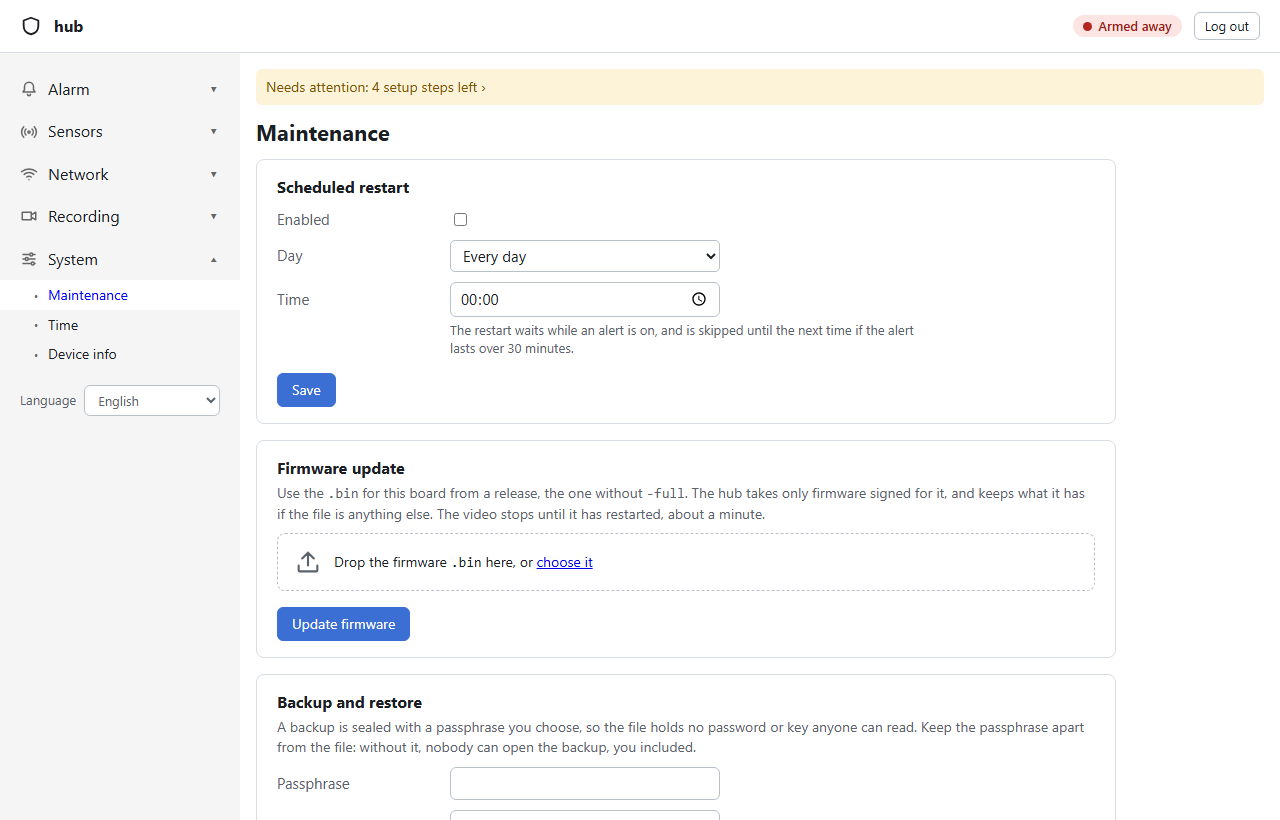
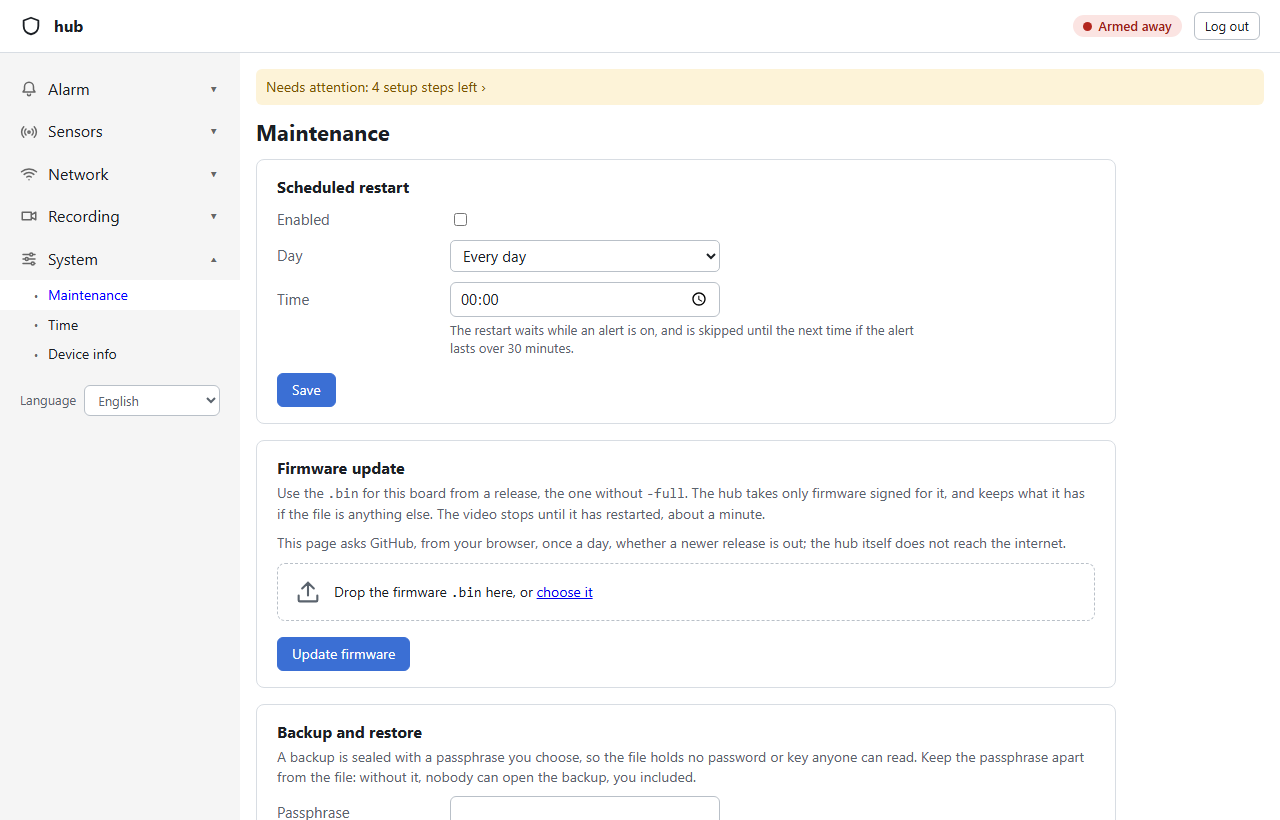
The release note on Maintenance is a plain note, and the pictures of the pages never ask GitHub
The Maintenance picture is taken again, with the note about asking GitHub. The screenshot
tool turns GitHub away, so the pictures are the same offline and whatever release is newest.

Changed region(s): [[0.2188, 0.8537, 0.8438, 1.0], [0.1875, 0.6402, 0.8438, 0.8232]]

diff --git a/web/index.html b/web/index.html
@@ -167,7 +167,7 @@
 <section class="card"><h2>Firmware update</h2>
 <div class="newRelease" id="fwNew" hidden></div>
 <p class="note">Use the <code>.bin</code> for this board from a release, the one without <code>-full</code>. The hub takes only firmware signed for it, and keeps what it has if the file is anything else. The video stops until it has restarted, about a minute.</p>
-<p class="hint">This page asks GitHub, from your browser, once a day, whether a newer release is out; the hub itself does not reach the internet.</p>
+<p class="note">This page asks GitHub, from your browser, once a day, whether a newer release is out; the hub itself does not reach the internet.</p>
 <label class="drop"><input id="fwFile" type="file" accept=".bin"><svg width="28" height="28" viewBox="0 0 24 24" fill="none" stroke-width="1.8" stroke-linecap="round" stroke-linejoin="round" aria-hidden="true"><path d="M12 15V4M7 9l5-5 5 5M4 15v4a1 1 0 0 0 1 1h14a1 1 0 0 0 1-1v-4"/></svg><span><span class="dropText">Drop the firmware <code>.bin</code> here, or <u>choose it</u></span><span class="dropFile"></span></span></label>
 <div class="progress" id="fwProg" hidden><div class="bar"><div id="fwBar"></div></div><span id="fwPct"></span></div>
 <div class="acts"><button id="fwSend" class="primary">Update firmware</button></div>

diff --git a/tools/screenshots.py b/tools/screenshots.py
@@ -102,6 +102,7 @@ def main():
             fill_the_hub()
             context = browser.new_context(http_credentials={'username': 'admin', 'password': PASSWORD}, **SAME_EVERYWHERE,
                                           viewport={'width': 1280, 'height': 820})
+            context.route('https://api.github.com/**', lambda r: r.abort())  # no newer release offered: the same picture offline
             page = context.new_page()
             for view, ready in PAGES:
                 take(page, view, ready, view.split(':')[0])
